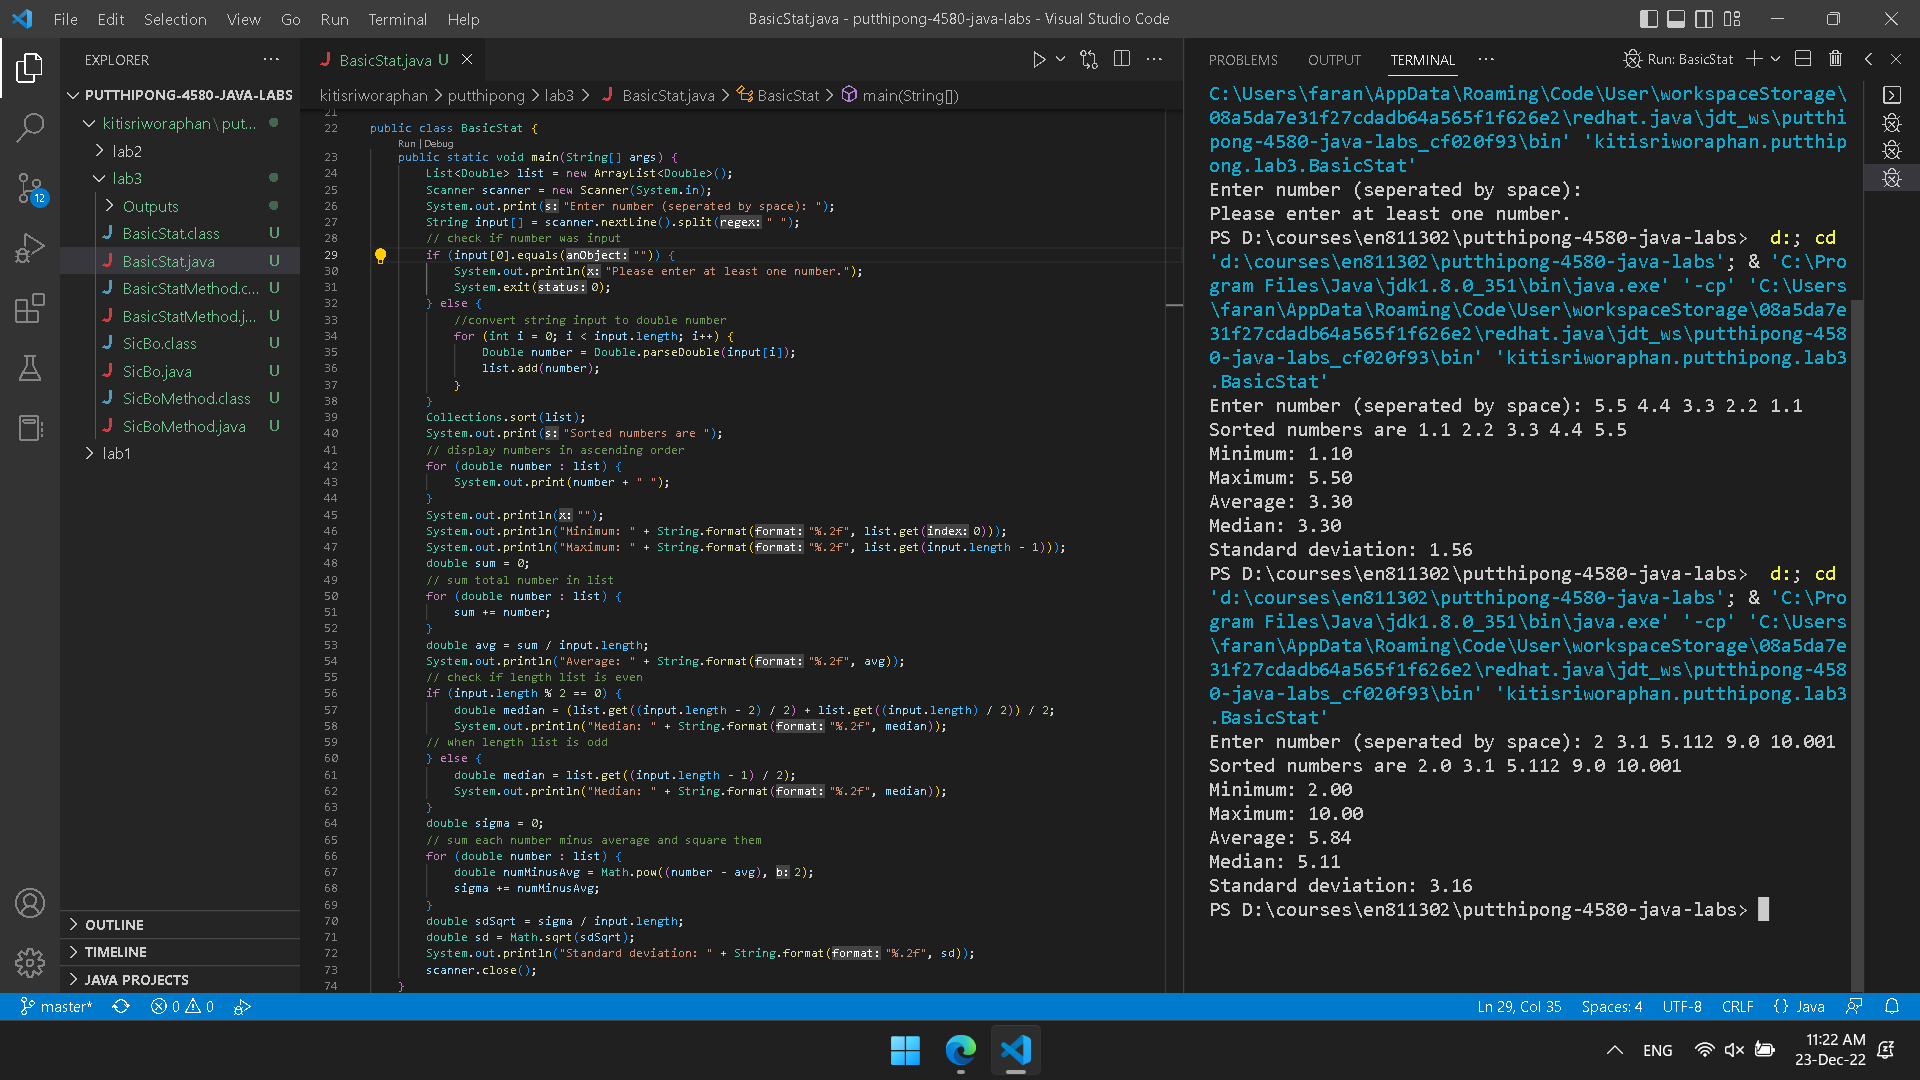
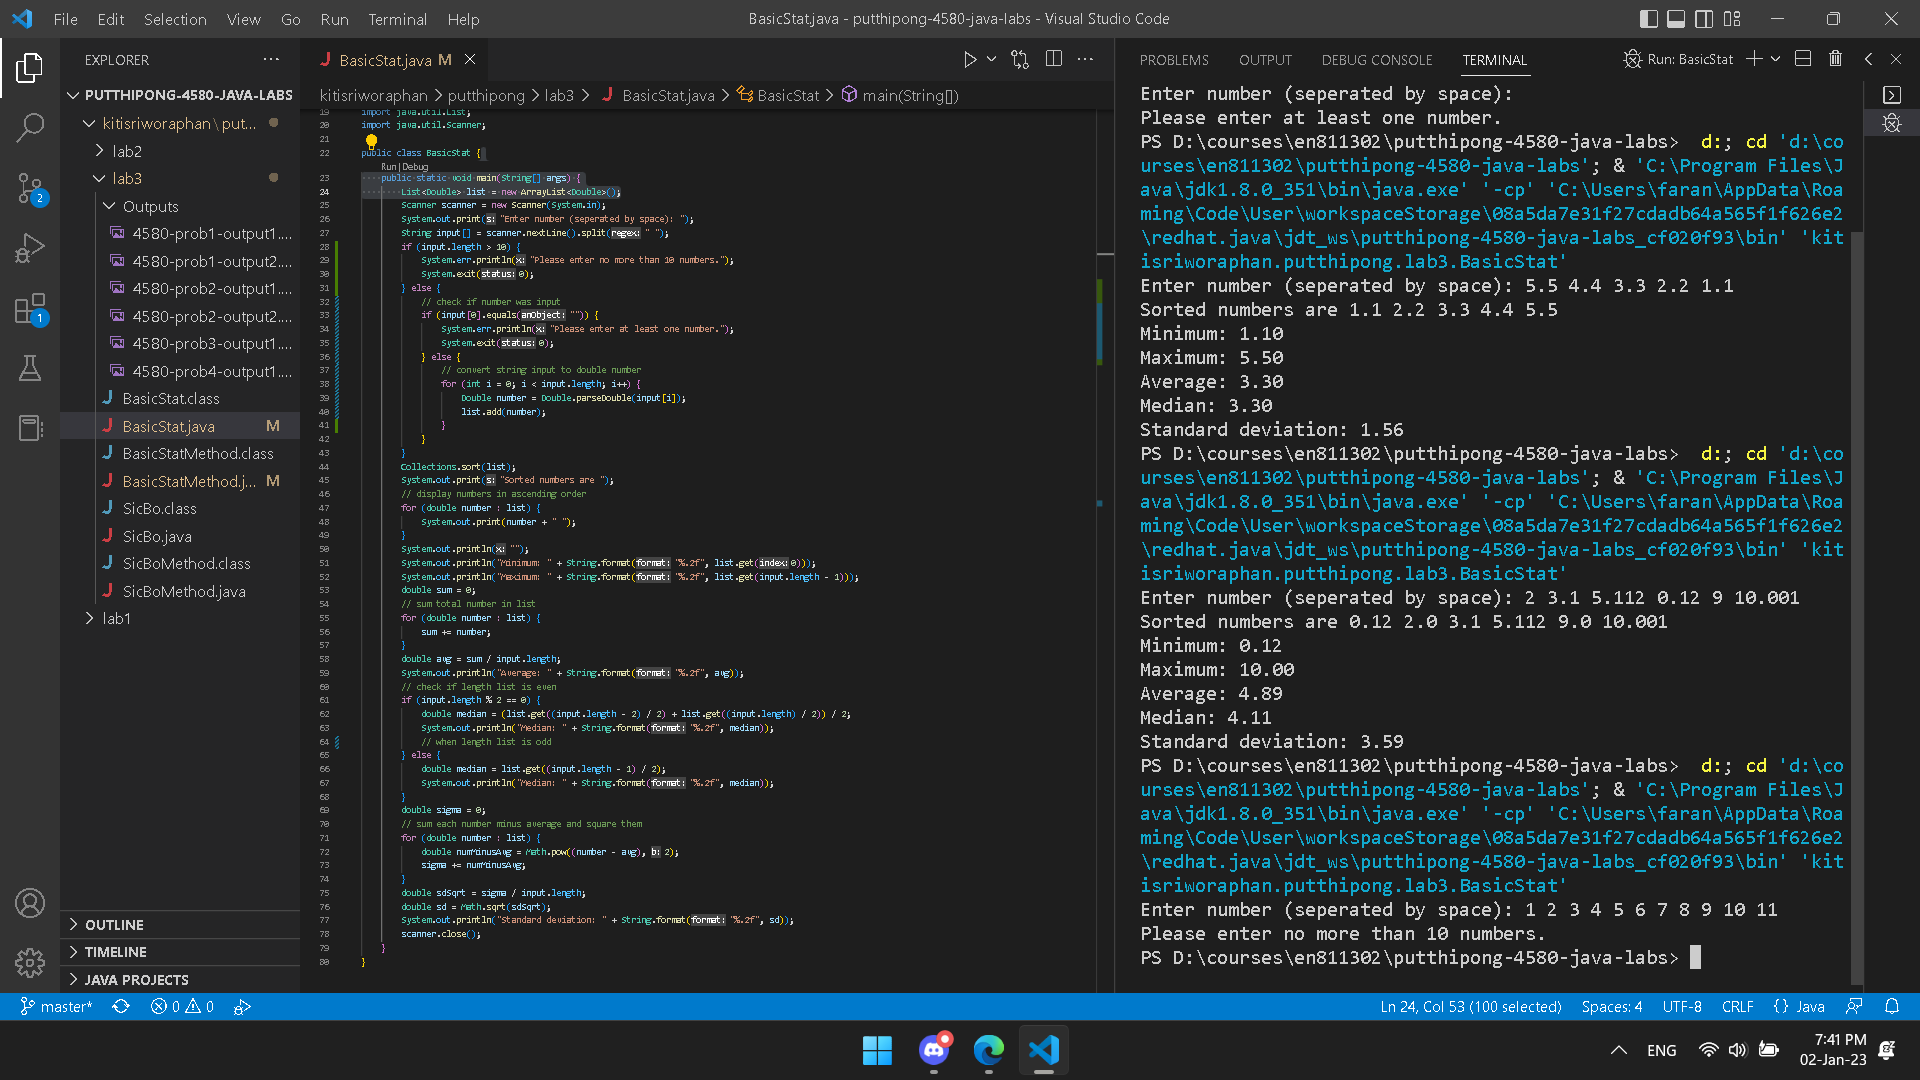
edit lab3 prob3,4

diff --git a/kitisriworaphan/putthipong/lab3/BasicStatMethod.java b/kitisriworaphan/putthipong/lab3/BasicStatMethod.java
@@ -38,7 +38,7 @@ public class BasicStatMethod {
         switch (input) {
             // check if number was input
             case "":
-                System.out.println("Please enter at least one number.");
+                System.err.println("Please enter at least one number.");
                 System.exit(0);
             default:
                 return input;
@@ -48,44 +48,49 @@ public class BasicStatMethod {
     public static void calculateStat(String input) {
         List<Double> list = new ArrayList<Double>();
         String inputList[] = input.split(" ");
-        //convert string input to double number
-        for (int i = 0; i < inputList.length; i++) {
-            Double number = Double.parseDouble(inputList[i]);
-            list.add(number);
-        }
-        Collections.sort(list);
-        System.out.print("Sorted numbers are ");
-        // display numbers in ascending order
-        for (double number : list) {
-            System.out.print(number + " ");
-        }
-        System.out.println("");
-        System.out.println("Minimum: " + String.format("%.2f", list.get(0)));
-        System.out.println("Maximum: " + String.format("%.2f", list.get(inputList.length - 1)));
-        double sum = 0;
-        // sum total number in list
-        for (double number : list) {
-            sum += number;
-        }
-        double avg = sum / inputList.length;
-        System.out.println("Average: " + String.format("%.2f", avg));
-        // check if length list is even
-        if (inputList.length % 2 == 0) {
-            double median = (list.get((inputList.length - 2) / 2) + list.get((inputList.length) / 2)) / 2;
-            System.out.println("Median: " + String.format("%.2f", median));
-        // when length list is odd
+        if (inputList.length > 10) {
+            System.err.println("Please enter no more than 10 numbers.");
+            System.exit(0);
         } else {
-            double median = list.get((inputList.length - 1) / 2);
-            System.out.println("Median: " + String.format("%.2f", median));
+            // convert string input to double number
+            for (int i = 0; i < inputList.length; i++) {
+                Double number = Double.parseDouble(inputList[i]);
+                list.add(number);
+            }
+            Collections.sort(list);
+            System.out.print("Sorted numbers are ");
+            // display numbers in ascending order
+            for (double number : list) {
+                System.out.print(number + " ");
+            }
+            System.out.println("");
+            System.out.println("Minimum: " + String.format("%.2f", list.get(0)));
+            System.out.println("Maximum: " + String.format("%.2f", list.get(inputList.length - 1)));
+            double sum = 0;
+            // sum total number in list
+            for (double number : list) {
+                sum += number;
+            }
+            double avg = sum / inputList.length;
+            System.out.println("Average: " + String.format("%.2f", avg));
+            // check if length list is even
+            if (inputList.length % 2 == 0) {
+                double median = (list.get((inputList.length - 2) / 2) + list.get((inputList.length) / 2)) / 2;
+                System.out.println("Median: " + String.format("%.2f", median));
+                // when length list is odd
+            } else {
+                double median = list.get((inputList.length - 1) / 2);
+                System.out.println("Median: " + String.format("%.2f", median));
+            }
+            double sigma = 0;
+            // sum each number minus average and square them
+            for (double number : list) {
+                double numMinusAvg = Math.pow((number - avg), 2);
+                sigma += numMinusAvg;
+            }
+            double sdSqrt = sigma / inputList.length;
+            double sd = Math.sqrt(sdSqrt);
+            System.out.println("Standard deviation: " + String.format("%.2f", sd));
         }
-        double sigma = 0;
-        // sum each number minus average and square them
-        for (double number : list) {
-            double numMinusAvg = Math.pow((number - avg), 2);
-            sigma += numMinusAvg;
-        }
-        double sdSqrt = sigma / inputList.length;
-        double sd = Math.sqrt(sdSqrt);
-        System.out.println("Standard deviation: " + String.format("%.2f", sd));
     }
 }

diff --git a/kitisriworaphan/putthipong/lab3/BasicStat.java b/kitisriworaphan/putthipong/lab3/BasicStat.java
@@ -25,15 +25,20 @@ public class BasicStat {
         Scanner scanner = new Scanner(System.in);
         System.out.print("Enter number (seperated by space): ");
         String input[] = scanner.nextLine().split(" ");
-        // check if number was input
-        if (input[0].equals("")) {
-            System.out.println("Please enter at least one number.");
+        if (input.length > 10) {
+            System.err.println("Please enter no more than 10 numbers.");
             System.exit(0);
         } else {
-            //convert string input to double number
-            for (int i = 0; i < input.length; i++) {
-                Double number = Double.parseDouble(input[i]);
-                list.add(number);
+            // check if number was input
+            if (input[0].equals("")) {
+                System.err.println("Please enter at least one number.");
+                System.exit(0);
+            } else {
+                // convert string input to double number
+                for (int i = 0; i < input.length; i++) {
+                    Double number = Double.parseDouble(input[i]);
+                    list.add(number);
+                }
             }
         }
         Collections.sort(list);
@@ -56,7 +61,7 @@ public class BasicStat {
         if (input.length % 2 == 0) {
             double median = (list.get((input.length - 2) / 2) + list.get((input.length) / 2)) / 2;
             System.out.println("Median: " + String.format("%.2f", median));
-        // when length list is odd
+            // when length list is odd
         } else {
             double median = list.get((input.length - 1) / 2);
             System.out.println("Median: " + String.format("%.2f", median));
